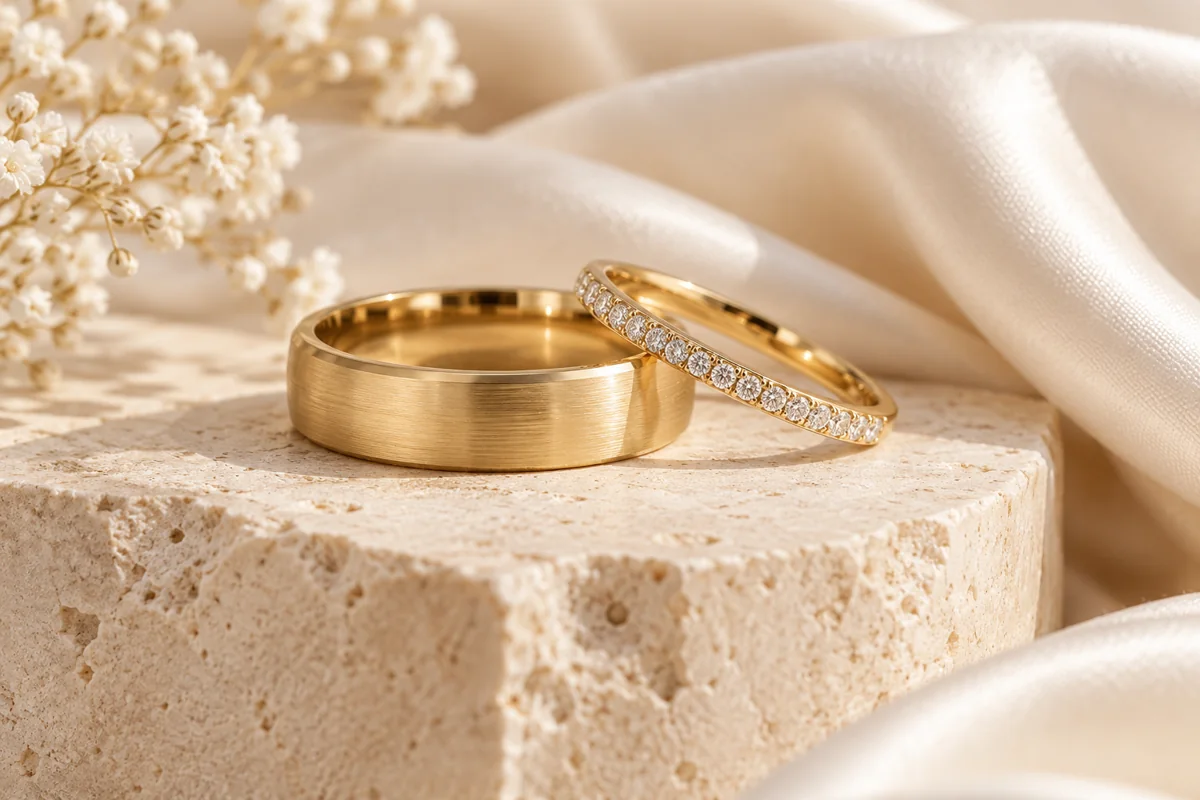
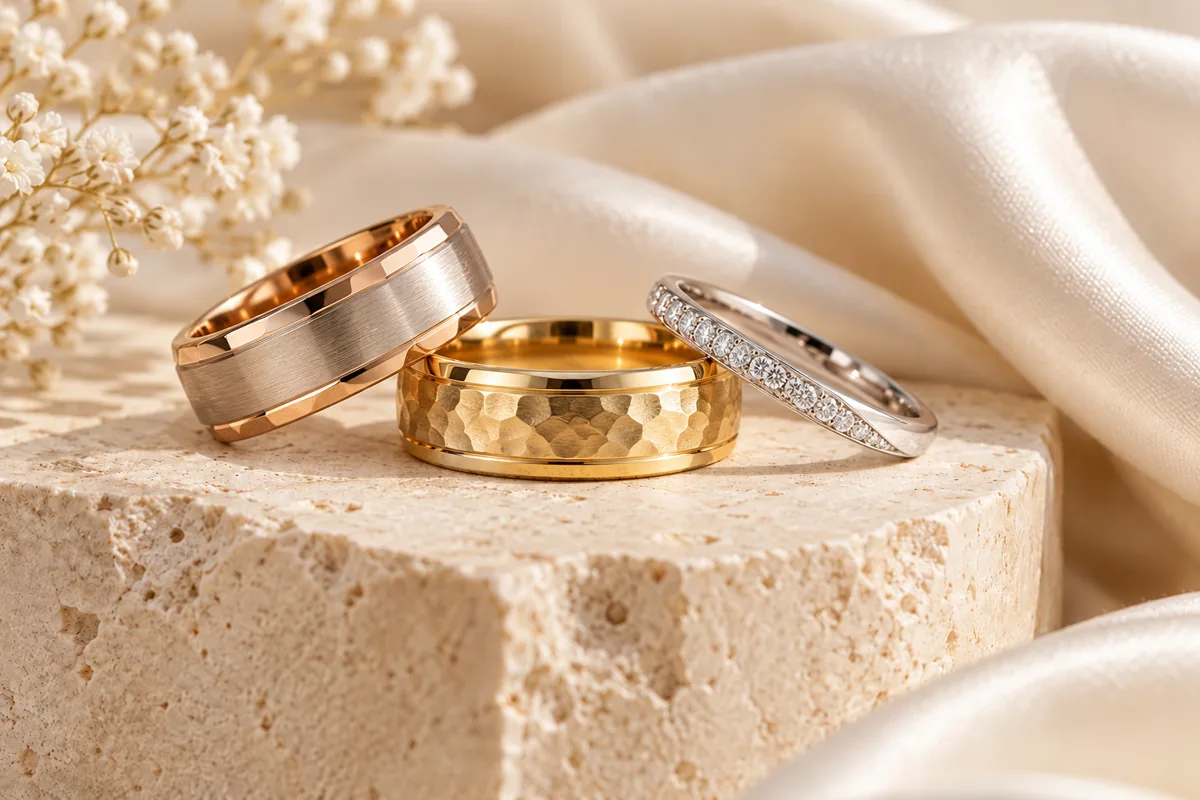
Show modern textured and two-tone wedding bands

Changed region(s): [[0.1233, 0.25, 0.8017, 0.625], [0.0925, 0.625, 0.1233, 0.6875], [0.0617, 0.5625, 0.0925, 0.5938]]

diff --git a/obraczki.html b/obraczki.html
@@ -7,4 +7,4 @@
 <script defer src="app.js?v=3bb2ec41cd"></script>
 
 </head><body><a class="skip-link" href="#tresc">Przejdź do treści</a><div class="top">GORZÓW WIELKOPOLSKI <span>Lombard · skup złota · wycena przedmiotów</span></div>
-<header id="gora"><a class="logo brand-sezam" href="index.html" aria-label="Lombard Sezam — strona główna"><img src="assets/sezam-logo.png?v=7c6a0f2772" alt="Logo Sezam" width="2033" height="313"></a><nav id="desktop-navigation" aria-label="Menu główne"><a href="co-przyjmujemy.html">Co przyjmujemy</a><a href="kalkulator-oplat.html">Sprawdź, ile zapłacisz</a><a href="cennik.html">Cennik skupu metali szlachetnych</a><a href="na-sprzedaz.html">Na sprzedaż</a><a href="obraczki.html" aria-current="page">Obrączki</a><a href="blog.html">Blog</a><a href="kontakt.html">Kontakt</a></nav><details class="mobile-navigation"><summary class="menu-toggle"><svg class="menu-icon" viewBox="0 0 24 24" width="23" height="23" aria-hidden="true"><path d="M3 6h18M3 12h18M3 18h18" fill="none" stroke="currentColor" stroke-width="2" stroke-linecap="round"/></svg><span>Menu</span></summary><nav id="main-navigation" aria-label="Menu główne"><a href="co-przyjmujemy.html">Co przyjmujemy</a><a href="kalkulator-oplat.html">Sprawdź, ile zapłacisz</a><a href="cennik.html">Cennik skupu metali szlachetnych</a><a href="na-sprzedaz.html">Na sprzedaż</a><a href="obraczki.html" aria-current="page">Obrączki</a><a href="blog.html">Blog</a><a href="kontakt.html">Kontakt</a></nav></details><a class="outline" href="kalkulator-oplat.html">Sprawdź opłaty →</a></header><main id="tresc"><section class="rings-hero"><div class="rings-hero-copy"><div class="eyebrow">OBRĄCZKI · GORZÓW WIELKOPOLSKI</div><h1>Wasza historia.<br>Wasze <em>obrączki.</em></h1><p>Obrączki na zamówienie w Gorzowie — wykonujemy je w <strong>14 dni</strong>, w atrakcyjnej cenie.</p><a class="button rings-main-cta" href="https://www.obraczkigorzow.pl/" target="_blank" rel="noopener noreferrer">Zobacz ponad 100 wzorów →</a><a class="rings-hero-domain" href="https://www.obraczkigorzow.pl/" target="_blank" rel="noopener noreferrer">www.obraczkigorzow.pl</a></div><figure class="rings-hero-photo"><img src="assets/obraczki-zlote-jedwab.webp?v=c8f8708e53" alt="Para klasycznych złotych obrączek na jasnym jedwabiu i kamieniu — ilustracja poglądowa" width="1536" height="1024" fetchpriority="high"><figcaption>Zdjęcie poglądowe</figcaption></figure></section><section class="rings-offer"><div class="rings-highlights"><div><strong>14 dni</strong><span>wykonanie na zamówienie</span></div><div><strong>Ponad 100</strong><span>wzorów do wyboru</span></div><div><strong>Atrakcyjna cena</strong><span>zapytaj o wycenę swojej pary</span></div></div><div class="rings-story"><figure class="rings-detail-photo"><img src="assets/obraczki-detale.webp?v=4b797ae747" alt="Złote obrączki o różnych wykończeniach na eleganckim jasnym kamieniu — ilustracja poglądowa" width="1536" height="1024" loading="lazy" decoding="async"><figcaption>Zdjęcie poglądowe</figcaption></figure><div class="rings-details"><div class="eyebrow">NA WASZ WYJĄTKOWY DZIEŃ</div><h2>Wasze obrączki,<br>Wasz wybór</h2><p>Jeśli szukacie obrączek ślubnych w Gorzowie, zajrzyjcie na naszą dedykowaną stronę. Znajdziecie tam ponad 100 wzorów, które pomogą Wam wybrać parę na ten wyjątkowy dzień.</p><p>Obejrzyjcie kolekcję i zapytajcie nas o wybrany wzór, rozmiary oraz cenę wykonania. Szczegóły zamówienia ustalimy wspólnie przed realizacją.</p><a class="outline" href="kontakt.html">Zapytaj o obrączki →</a></div></div></section></main><footer><a class="logo footer-brand" href="#gora">LOMBARD SEZAM<span>GORZÓW WIELKOPOLSKI</span></a><p>ul. Pocztowa 11<br> 66-400 Gorzów Wielkopolski</p><div class="footer-sites"><span>NASZE STRONY</span><nav aria-label="Nasze strony"><a href="https://sezam.com.pl" target="_blank" rel="noopener noreferrer">sezam.com.pl →</a><a href="https://srebrogorzow.pl" target="_blank" rel="noopener noreferrer">srebrogorzow.pl →</a><a href="https://zlotogorzow.pl" target="_blank" rel="noopener noreferrer">zlotogorzow.pl →</a><a href="https://www.obraczkigorzow.pl" target="_blank" rel="noopener noreferrer">www.obraczkigorzow.pl →</a><a href="https://www.skupzlotagorzow.pl" target="_blank" rel="noopener noreferrer">www.skupzlotagorzow.pl →</a></nav></div></footer><a class="floating-whatsapp" href="https://wa.me/48601775146" target="_blank" rel="noopener noreferrer" aria-label="WhatsApp — napisz do Lombardu Sezam" title="Napisz na WhatsApp"><span class="floating-whatsapp-label">WhatsApp</span><svg viewBox="0 0 32 32" width="32" height="32" aria-hidden="true"><path d="M26 6a13 13 0 0 0-21 15L3 29l8-2A13 13 0 0 0 26 6Z" fill="none" stroke="currentColor" stroke-width="2"/><path d="M11 9c-3 1-2 6 2 10s8 5 10 2l-4-3-2 2c-3-1-5-3-6-6l2-1Z" fill="currentColor"/></svg></a></body></html>
+<header id="gora"><a class="logo brand-sezam" href="index.html" aria-label="Lombard Sezam — strona główna"><img src="assets/sezam-logo.png?v=7c6a0f2772" alt="Logo Sezam" width="2033" height="313"></a><nav id="desktop-navigation" aria-label="Menu główne"><a href="co-przyjmujemy.html">Co przyjmujemy</a><a href="kalkulator-oplat.html">Sprawdź, ile zapłacisz</a><a href="cennik.html">Cennik skupu metali szlachetnych</a><a href="na-sprzedaz.html">Na sprzedaż</a><a href="obraczki.html" aria-current="page">Obrączki</a><a href="blog.html">Blog</a><a href="kontakt.html">Kontakt</a></nav><details class="mobile-navigation"><summary class="menu-toggle"><svg class="menu-icon" viewBox="0 0 24 24" width="23" height="23" aria-hidden="true"><path d="M3 6h18M3 12h18M3 18h18" fill="none" stroke="currentColor" stroke-width="2" stroke-linecap="round"/></svg><span>Menu</span></summary><nav id="main-navigation" aria-label="Menu główne"><a href="co-przyjmujemy.html">Co przyjmujemy</a><a href="kalkulator-oplat.html">Sprawdź, ile zapłacisz</a><a href="cennik.html">Cennik skupu metali szlachetnych</a><a href="na-sprzedaz.html">Na sprzedaż</a><a href="obraczki.html" aria-current="page">Obrączki</a><a href="blog.html">Blog</a><a href="kontakt.html">Kontakt</a></nav></details><a class="outline" href="kalkulator-oplat.html">Sprawdź opłaty →</a></header><main id="tresc"><section class="rings-hero"><div class="rings-hero-copy"><div class="eyebrow">OBRĄCZKI · GORZÓW WIELKOPOLSKI</div><h1>Wasza historia.<br>Wasze <em>obrączki.</em></h1><p>Obrączki na zamówienie w Gorzowie — wykonujemy je w <strong>14 dni</strong>, w atrakcyjnej cenie.</p><a class="button rings-main-cta" href="https://www.obraczkigorzow.pl/" target="_blank" rel="noopener noreferrer">Zobacz ponad 100 wzorów →</a><a class="rings-hero-domain" href="https://www.obraczkigorzow.pl/" target="_blank" rel="noopener noreferrer">www.obraczkigorzow.pl</a></div><figure class="rings-hero-photo"><img src="assets/obraczki-zlote-jedwab.webp?v=e62b19c0dd" alt="Nowoczesne dwukolorowe obrączki z fakturą, zdobieniami i kamieniami na jasnym jedwabiu i kamieniu — ilustracja poglądowa" width="1536" height="1024" fetchpriority="high"><figcaption>Zdjęcie poglądowe</figcaption></figure></section><section class="rings-offer"><div class="rings-highlights"><div><strong>14 dni</strong><span>wykonanie na zamówienie</span></div><div><strong>Ponad 100</strong><span>wzorów do wyboru</span></div><div><strong>Atrakcyjna cena</strong><span>zapytaj o wycenę swojej pary</span></div></div><div class="rings-story"><figure class="rings-detail-photo"><img src="assets/obraczki-detale.webp?v=ee2eb16b26" alt="Nowoczesne obrączki z różowego, żółtego i białego złota, z geometrycznymi fakturami i kamieniami na jasnym kamieniu — ilustracja poglądowa" width="1536" height="1024" loading="lazy" decoding="async"><figcaption>Zdjęcie poglądowe</figcaption></figure><div class="rings-details"><div class="eyebrow">NA WASZ WYJĄTKOWY DZIEŃ</div><h2>Wasze obrączki,<br>Wasz wybór</h2><p>Jeśli szukacie obrączek ślubnych w Gorzowie, zajrzyjcie na naszą dedykowaną stronę. Znajdziecie tam ponad 100 wzorów, które pomogą Wam wybrać parę na ten wyjątkowy dzień.</p><p>Obejrzyjcie kolekcję i zapytajcie nas o wybrany wzór, rozmiary oraz cenę wykonania. Szczegóły zamówienia ustalimy wspólnie przed realizacją.</p><a class="outline" href="kontakt.html">Zapytaj o obrączki →</a></div></div></section></main><footer><a class="logo footer-brand" href="#gora">LOMBARD SEZAM<span>GORZÓW WIELKOPOLSKI</span></a><p>ul. Pocztowa 11<br> 66-400 Gorzów Wielkopolski</p><div class="footer-sites"><span>NASZE STRONY</span><nav aria-label="Nasze strony"><a href="https://sezam.com.pl" target="_blank" rel="noopener noreferrer">sezam.com.pl →</a><a href="https://srebrogorzow.pl" target="_blank" rel="noopener noreferrer">srebrogorzow.pl →</a><a href="https://zlotogorzow.pl" target="_blank" rel="noopener noreferrer">zlotogorzow.pl →</a><a href="https://www.obraczkigorzow.pl" target="_blank" rel="noopener noreferrer">www.obraczkigorzow.pl →</a><a href="https://www.skupzlotagorzow.pl" target="_blank" rel="noopener noreferrer">www.skupzlotagorzow.pl →</a></nav></div></footer><a class="floating-whatsapp" href="https://wa.me/48601775146" target="_blank" rel="noopener noreferrer" aria-label="WhatsApp — napisz do Lombardu Sezam" title="Napisz na WhatsApp"><span class="floating-whatsapp-label">WhatsApp</span><svg viewBox="0 0 32 32" width="32" height="32" aria-hidden="true"><path d="M26 6a13 13 0 0 0-21 15L3 29l8-2A13 13 0 0 0 26 6Z" fill="none" stroke="currentColor" stroke-width="2"/><path d="M11 9c-3 1-2 6 2 10s8 5 10 2l-4-3-2 2c-3-1-5-3-6-6l2-1Z" fill="currentColor"/></svg></a></body></html>
